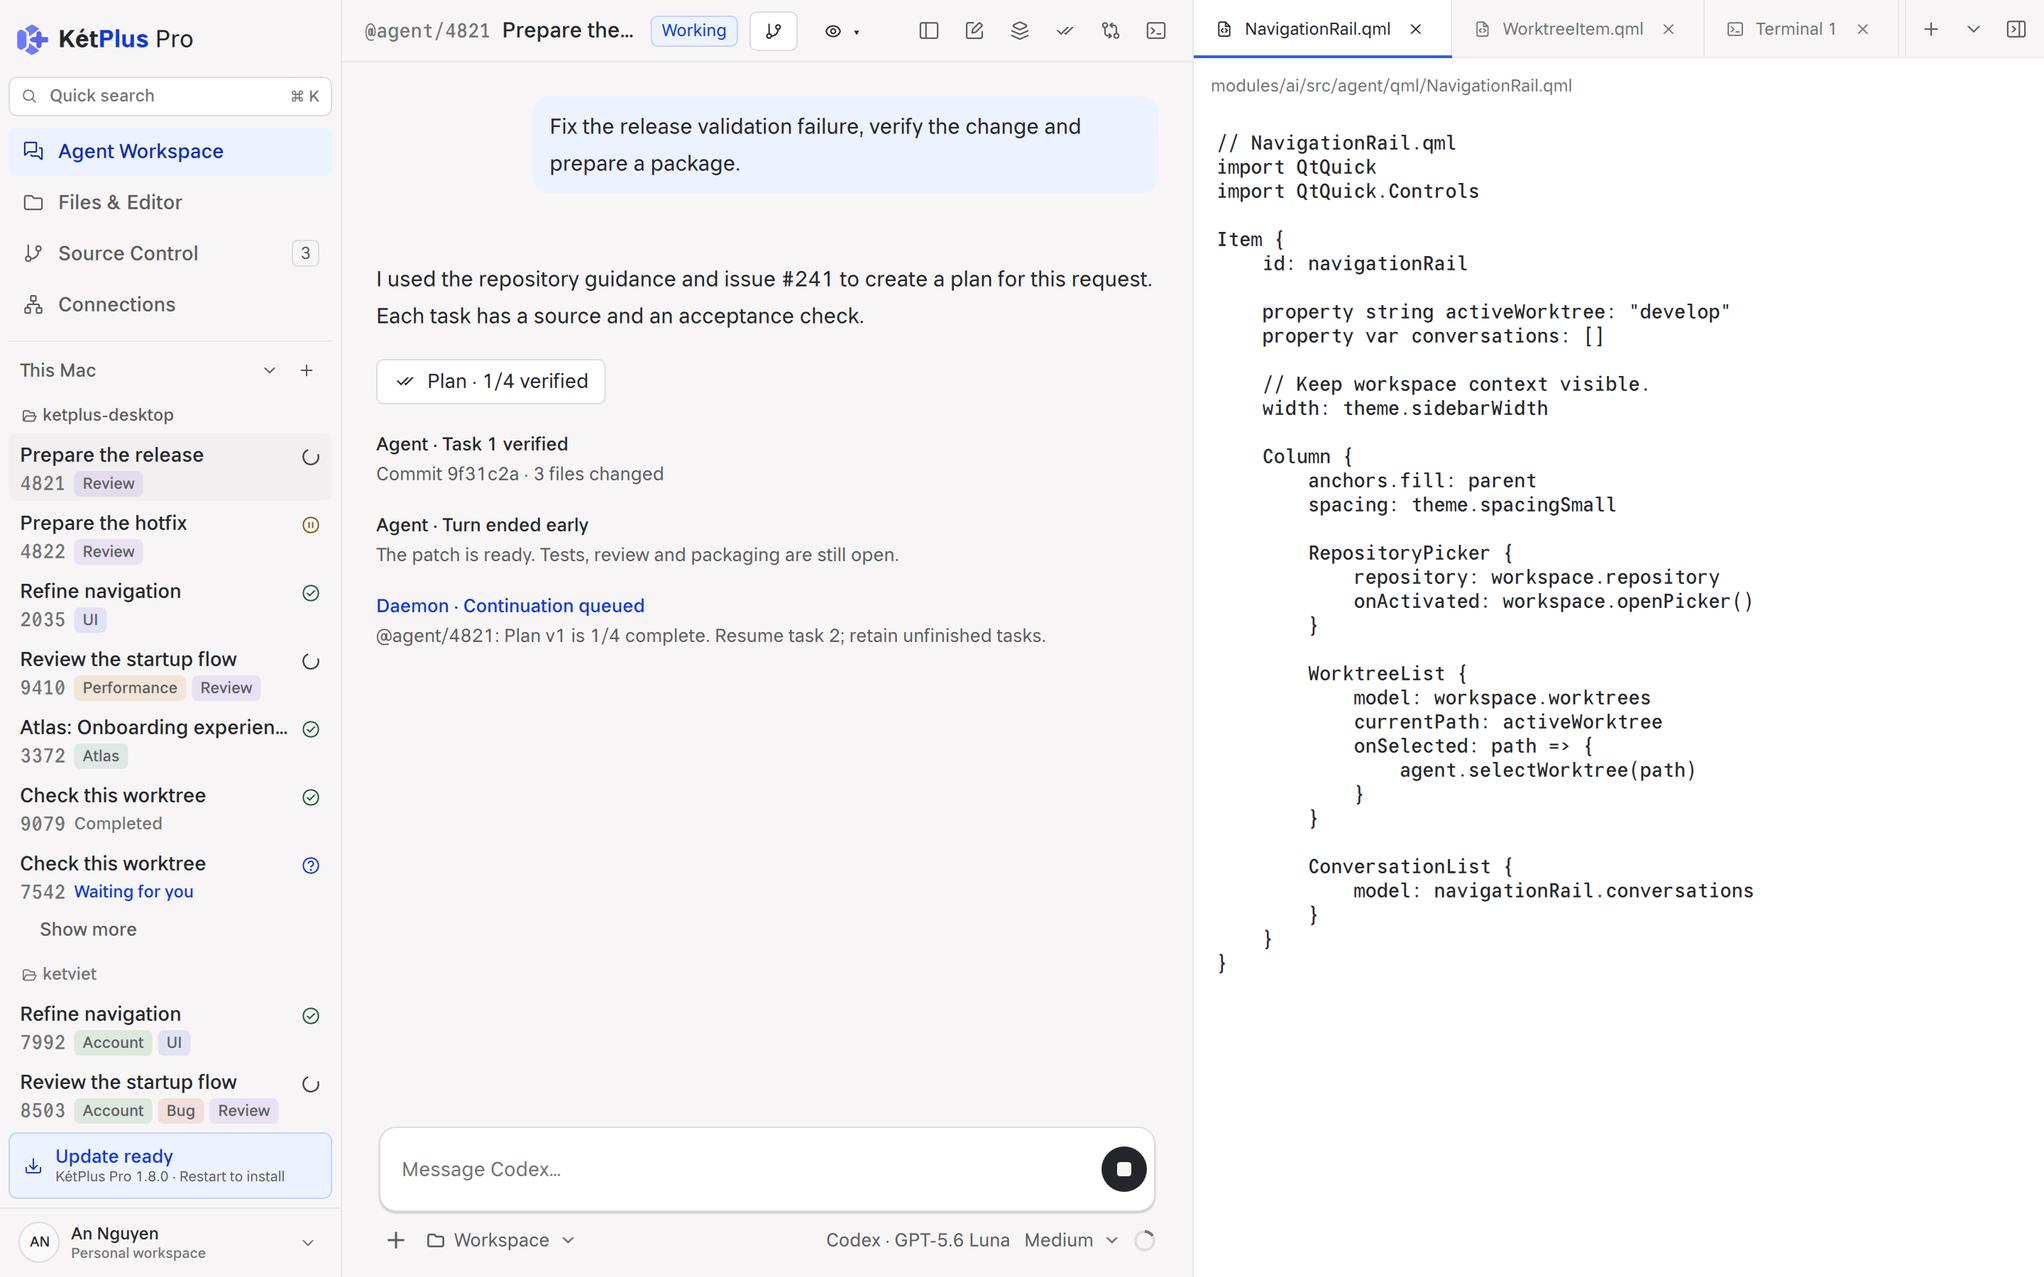
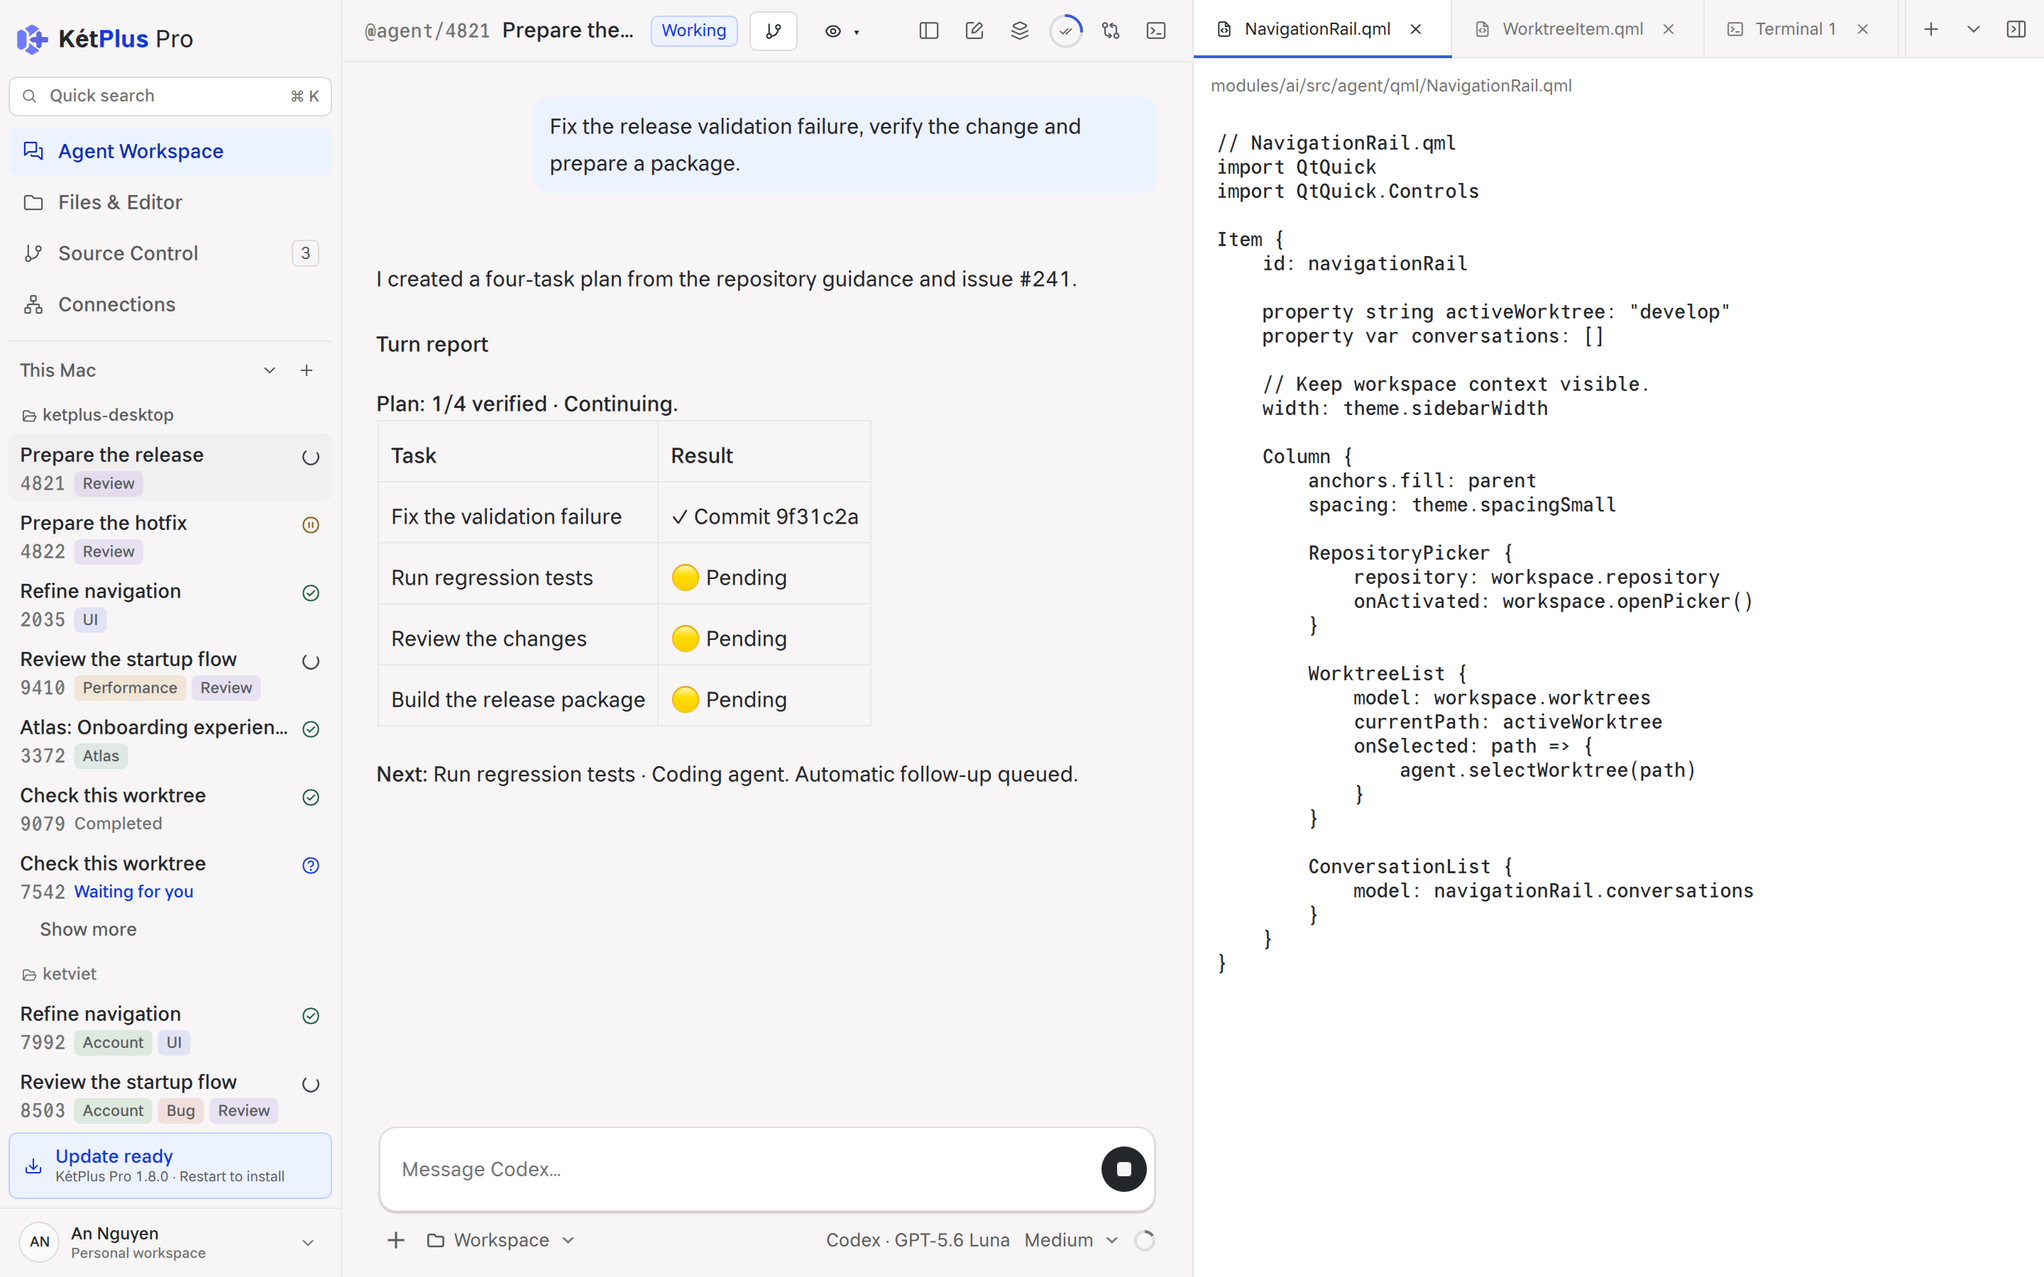
design(mock): move plan progress into the conversation toolbar

Changed region(s): [[0.1875, 0.1867, 0.5625, 0.56], [0.1875, 0.5911, 0.5312, 0.6222]]

diff --git a/mockups/qt/qml/parts/ConversationPlanTranscript.qml b/mockups/qt/qml/parts/ConversationPlanTranscript.qml
@@ -3,13 +3,30 @@ import QtQuick
 import Ket
 import KetPlusMock
 
-// The plan is conversation content. Its checklist opens in the existing detail pane.
+// The toolbar opens the plan. Chat keeps the final report, not a second activity feed.
 Column {
     id: transcript
     required property var window
     required property var run
-    signal openPlan()
     function px(n) { return KetTheme.px(n, KetTheme.zoom) }
+    function reportMarkdown(report) {
+        if (!report) return ""
+        const evidence = ["✓ Commit 9f31c2a", "✓ 48/48 passed", "✓ No open findings", "✓ Package built"]
+        let text = "**Turn report**\n\n**Plan: " + report.completed + "/" + run.tasks.length
+            + " verified · " + run.statusLabel(report.status) + ".**\n\n"
+            + "| Task | Result |\n| --- | --- |\n"
+        for (let i = 0; i < run.tasks.length; ++i) {
+            const result = i < report.completed ? evidence[i]
+                : i === report.completed && report.status === "blocked" ? "🔴 Blocked" : "🟡 Pending"
+            text += "| " + run.tasks[i].title + " | " + result + " |\n"
+        }
+        const next = report.status === "complete" ? "None. All four tasks are verified."
+            : report.status === "blocked" ? "Repository owner: restore the regression fixture. Then the coding agent resumes tests."
+            : report.status === "paused" ? "You: resume when ready. Automatic follow-up is stopped."
+            : report.status === "limit" ? "You: review the stalled work before allowing another follow-up."
+            : run.tasks[report.completed].title + " · " + run.tasks[report.completed].owner + ". Automatic follow-up queued."
+        return text + "\n**Next:** " + next
+    }
     topPadding: px(24)
     bottomPadding: px(24)
     spacing: px(20)
@@ -22,41 +39,17 @@ Column {
         MarkdownView {
             width: parent.width
             window: transcript.window
-            markdown: run.contextRead
-                ? "I used the repository guidance and issue #241 to create a plan for this request. Each task has a source and an acceptance check."
+            markdown: run.planCreated
+                ? "I created a four-task plan from the repository guidance and issue #241."
                 : run.status === "ready" ? "Send the sample prompt to preview automatic planning."
+                : run.contextRead ? "Repository context checked. I’m creating a plan for this request."
                 : "This needs several steps. I’m checking the repository memory and relevant open issues before creating a plan."
         }
-        KetButton {
-            text: run.planCreated ? "Plan · " + run.completed + "/4 verified" : "View planning"
-            iconName: "check-all"
-            variant: KetTheme.ButtonVariant.Secondary
-            onClicked: transcript.openPlan()
-        }
-        Repeater {
-            model: run.events.filter(e => e.actor !== "You").slice(-3)
-            Column {
-                required property var modelData
-                width: parent.width
-                spacing: transcript.px(5)
-                Text {
-                    width: parent.width
-                    text: modelData.actor + " · " + modelData.title
-                    color: modelData.actor === "Daemon" ? KetTheme.t.accentText : KetTheme.t.textMain
-                    font.family: KetTheme.fontFamily
-                    font.pixelSize: transcript.px(13)
-                    font.weight: Font.Medium
-                    wrapMode: Text.Wrap
-                }
-                Text {
-                    width: parent.width
-                    text: modelData.detail
-                    color: KetTheme.t.textSecondary
-                    font.family: KetTheme.fontFamily
-                    font.pixelSize: transcript.px(13)
-                    wrapMode: Text.Wrap
-                }
-            }
+        MarkdownView {
+            visible: !!run.lastReport
+            width: parent.width
+            window: transcript.window
+            markdown: transcript.reportMarkdown(run.lastReport)
         }
     }
 }

diff --git a/mockups/qt/qml/parts/PlanRunModel.qml b/mockups/qt/qml/parts/PlanRunModel.qml
@@ -27,6 +27,8 @@ QtObject {
         onTriggered: run.advance()
     }
     property var events: []
+    // A finished turn keeps its own snapshot while the toolbar follows live progress.
+    property var lastReport: null
     readonly property bool active: status === "planning" || status === "running" || status === "continuing"
     readonly property var tasks: [
         { title: "Fix the validation failure", owner: "Coding agent", criterion: "Issue #241 reproduction passes after the patch.", source: "GitHub #241", evidence: "Commit 9f31c2a · 3 files changed" },
@@ -37,10 +39,17 @@ QtObject {
     function record(actor, title, detail) {
         events = events.concat([{ actor: actor, title: title, detail: detail }])
     }
+    function statusLabel(state) {
+        return ({ ready: "Not created", planning: "Planning", running: "Working", continuing: "Continuing",
+            blocked: "Blocked", paused: "Stopped by you", limit: "Limit reached", complete: "Complete" })[state]
+    }
+    function finishReport() {
+        if (planCreated) lastReport = { completed: completed, status: status }
+    }
     function load(state) {
         autoplay = false
         status = "ready"; completed = 0; followUps = 0; followUpLimit = 3; events = []
-        contextRead = false; planCreated = false; resumeState = "running"
+        contextRead = false; planCreated = false; resumeState = "running"; lastReport = null
         if (state === "ready") return
         record("You", "Request received", prompt)
         record("Agent", "Multi-step work detected", "Inspect repo memory and relevant open issues, then create a plan for this conversation.")
@@ -65,6 +74,7 @@ QtObject {
             for (let i = 1; i < 4; ++i) record("Agent", "Task " + (i + 1) + " verified", tasks[i].evidence)
             record("Daemon", "Plan complete", "All four acceptance criteria have evidence. No further follow-up is scheduled.")
         }
+        if (state !== "running") finishReport()
     }
     function submitPrompt() {
         if (status !== "ready") return
@@ -92,6 +102,7 @@ QtObject {
         status = "continuing"
         record("Agent", "Turn ended early", completed + "/4 tasks verified. The remaining tasks are still open.")
         record("Daemon", "Continuation queued", "Resume @agent/" + conversationId + " at task " + (completed + 1) + " against Plan v1. Do not repeat completed work.")
+        finishReport()
     }
     function advance() {
         if (!active) return
@@ -104,6 +115,7 @@ QtObject {
             if (followUps >= followUpLimit) {
                 status = "limit"; autoplay = false
                 record("Daemon", "Follow-up limit reached", "Work remains. Review the cause before extending the limit.")
+                finishReport()
                 return
             }
             ++followUps; status = "running"
@@ -117,6 +129,7 @@ QtObject {
         } else if (completed === 4) {
             status = "complete"; autoplay = false
             record("Daemon", "Plan complete", "4/4 acceptance criteria verified. No automatic follow-up remains.")
+            finishReport()
         }
     }
     function stop() {
@@ -124,6 +137,7 @@ QtObject {
         resumeState = status === "planning" ? "planning" : "running"
         status = "paused"; autoplay = false
         record("You", "Run stopped", "Queued continuation cancelled. Completed tasks and evidence are preserved.")
+        finishReport()
     }
     function resume() {
         if (status !== "paused") return

diff --git a/mockups/qt/qml/parts/PlanProgressButton.qml b/mockups/qt/qml/parts/PlanProgressButton.qml
@@ -1,0 +1,56 @@
+// SPDX-License-Identifier: MPL-2.0
+import QtQuick
+import Ket
+
+// Conversation-specific composition: kit button + progress geometry and semantic tokens.
+// Usage-ring colours indicate capacity pressure, so they must not colour plan completion.
+KetIconButton {
+    id: button
+    property var run: null
+    readonly property real progress: run && run.planCreated ? run.completed / run.tasks.length : 0
+    readonly property var ringRecipe: KetTheme.usageRingRecipe(KetTheme.dark, KetTheme.zoom, 0, false)
+    readonly property var progressRecipe: KetTheme.progressRecipe(KetTheme.dark, KetTheme.zoom)
+    readonly property color arcColor: run && run.status === "complete" ? KetTheme.t.success
+        : run && ["blocked", "limit"].includes(run.status) ? KetTheme.t.warning
+        : run && run.status === "paused" ? KetTheme.t.textMuted : progressRecipe.fill
+
+    objectName: "conversationPlanButton"
+    iconName: "check-all"
+    glyphSize: KetTheme.px(12, KetTheme.zoom)
+    text: "Plan · " + (run && run.planCreated ? run.completed + "/" + run.tasks.length + " verified · " : "")
+        + (run ? run.statusLabel(run.status) : "Not created")
+
+    Canvas {
+        id: ring
+        anchors.centerIn: parent
+        width: KetTheme.px(24, KetTheme.zoom)
+        height: width
+        readonly property real value: button.progress
+        readonly property real stroke: button.ringRecipe.stroke
+        readonly property color track: button.progressRecipe.track
+        readonly property color arc: button.arcColor
+        onValueChanged: requestPaint()
+        onStrokeChanged: requestPaint()
+        onTrackChanged: requestPaint()
+        onArcChanged: requestPaint()
+        onWidthChanged: requestPaint()
+        onPaint: {
+            const ctx = getContext("2d")
+            ctx.reset()
+            const radius = (width - stroke) / 2
+            ctx.lineWidth = stroke
+            ctx.strokeStyle = track
+            ctx.beginPath()
+            ctx.arc(width / 2, height / 2, radius, 0, 2 * Math.PI)
+            ctx.stroke()
+            if (value > 0) {
+                ctx.strokeStyle = arc
+                ctx.lineCap = "round"
+                ctx.beginPath()
+                ctx.arc(width / 2, height / 2, radius, -Math.PI / 2,
+                        -Math.PI / 2 + 2 * Math.PI * Math.min(1, value))
+                ctx.stroke()
+            }
+        }
+    }
+}

diff --git a/mockups/qt/tests/tst_PlanRunModel.qml b/mockups/qt/tests/tst_PlanRunModel.qml
@@ -63,6 +63,37 @@ TestCase {
         run.resume(); run.advance()
         compare(run.completed, 2)
     }
+    function test_report_preserves_finished_turn_while_next_turn_progresses() {
+        run.start(); run.advance()
+        const firstReport = run.lastReport
+        compare(firstReport.completed, 1)
+        compare(firstReport.status, "continuing")
+        run.advance(); run.advance()
+        compare(run.completed, 2)
+        compare(run.lastReport, firstReport)
+        compare(firstReport.completed, 1)
+        run.advance(); run.advance()
+        compare(run.lastReport.completed, 4)
+        compare(run.lastReport.status, "complete")
+        compare(firstReport.completed, 1)
+    }
+    function test_report_requires_a_plan_and_records_interrupted_work() {
+        run.submitPrompt(); run.stop()
+        compare(run.lastReport, null)
+        run.load("blocked")
+        compare(run.lastReport.status, "blocked")
+        compare(run.lastReport.completed, 1)
+        run.retryBlocker()
+        compare(run.lastReport.completed, 1)
+        run.load("running"); run.stop()
+        compare(run.lastReport.status, "paused")
+        run.resume()
+        compare(run.lastReport.status, "paused")
+        run.load("limit")
+        compare(run.lastReport.status, "limit")
+        run.load("ready")
+        compare(run.lastReport, null)
+    }
     function test_blocker_cannot_be_marked_done_by_retry() {
         run.load("blocked")
         run.advance(); run.resume(); run.retryBlocker()

diff --git a/mockups/qt/qml/parts/ConversationHeader.qml b/mockups/qt/qml/parts/ConversationHeader.qml
@@ -12,6 +12,7 @@ Rectangle {
     required property var window
     required property var conversation
     property bool detailsOpen: false
+    property var planRun: null
     property int status: conversation.status
 
     // The agent that reviews each finished turn and replies here, by conversation number.
@@ -212,10 +213,9 @@ Rectangle {
             checked: header.detailsOpen
             onClicked: header.toggleDetails("atlas")
         }
-        KetIconButton {
+        PlanProgressButton {
             visible: !!header.conversation.hasPlan
-            iconName: "check-all"
-            text: "Conversation plan"
+            run: header.planRun
             onClicked: header.toggleDetails("plan")
         }
         KetIconButton {

diff --git a/mockups/qt/qml/screens/WorkspaceScreen.qml b/mockups/qt/qml/screens/WorkspaceScreen.qml
@@ -95,6 +95,7 @@ Item {
                 Layout.fillWidth: true
                 window: screen.window
                 conversation: screen.conversation
+                planRun: screen.planRun
                 status: screen.planStatus(screen.conversation.number, screen.conversation.status)
                 detailsOpen: screen.detailsOpen
                 onToggleDetails: tab => screen.openContent(tab)
@@ -123,7 +124,6 @@ Item {
                         sourceComponent: ConversationPlanTranscript {
                             window: screen.window
                             run: screen.planRun
-                            onOpenPlan: screen.openPlan("")
                         }
                     }
                     Transcript {

diff --git a/mockups/qt/marketing/plan-harness/README.md b/mockups/qt/marketing/plan-harness/README.md
@@ -4,7 +4,9 @@ The plan belongs to a conversation, not to a project-wide Planning screen. Open 
 
 ## Compact presentation
 
-Each task is one row: completion icon, task title, owner and status. Expand a task to inspect its acceptance criterion and evidence. Activity entries are also one row; expand one for details. The conversation header and sidebar reflect the run state. An inline conversation action shows the verified count and reopens the right pane. The header checklist action opens the same pane. Closing the pane or changing its content does not stop or reset the plan.
+Each task is one row: completion icon, task title, owner and status. Expand a task to inspect its acceptance criterion and evidence. Activity entries inside the Plan document are also one row; expand one for details. The conversation header and sidebar reflect the run state. A single checklist icon with a progress ring in the conversation toolbar opens the Plan document. Its accessible name and tooltip include the verified count and state. The ring follows live progress and uses success colour at completion. Closing the pane or changing its content does not stop or reset the plan.
+
+The transcript has no inline Plan button or duplicated Agent/Daemon activity feed. Its compact end-of-turn report states the plan status and verified count, lists one row per task with evidence or pending work, and names the next action and owner. This report is a snapshot of the finished turn; it does not silently change as the next turn progresses. A later finished turn produces a new report. Before a plan exists, there is no completion report.
 
 All text is English. The footer’s Preview selector and playback buttons are prototype controls, not proposed production controls. Concept labels and sample-evidence disclosures must remain when these captures are used in marketing.
 
@@ -12,7 +14,7 @@ All text is English. The footer’s Preview selector and playback buttons are pr
 
 - Each open file has its own tab; the same path reselects its existing tab. A file and its diff are separate documents.
 - Each New terminal action creates a numbered session. Draft input and fixture output stay with that session when switching tabs. No shell command is executed.
-- Plan is one document per conversation. Closing its tab does not cancel the plan; the inline conversation action reopens it with existing progress.
+- Plan is one document per conversation. Closing its tab does not cancel the plan; the toolbar progress icon reopens it with existing progress.
 - The tab strip scrolls horizontally and reveals the selected tab. The dropdown lists all open documents; `+` opens sample files, a new terminal, the plan, changes or an Atlas.
 - Closing an active tab selects its neighbour; closing an inactive tab preserves the selection. The empty pane offers New terminal. Hiding the pane preserves open documents.
 - The fixture file viewer is read-only; these mocks do not read or write actual repository files. Terminal sessions and tabs are in-memory and are not persisted across launches.
@@ -57,10 +59,11 @@ Other direct states: `plan-running`, `plan-paused`, `plan-limit`. Direct state p
 ## Verification
 
 - Standalone mock build passed.
-- QML model suite: 21 passed, 0 failed. Covers automatic continuation, stop/resume, blockers and limits, plus document identity, tab closure/selection, independent terminal drafts and output, and conversation isolation.
+- QML model suite: 23 passed, 0 failed. Covers automatic continuation, stop/resume, blockers and limits, plus document identity, tab closure/selection, independent terminal drafts and output, conversation isolation, and report snapshots that retain a finished turn’s progress while the next turn runs.
 - Pro smoke: 58 screens, 0 QML problems. Lite smoke: 11 screens, 0 QML problems.
 - Native captures cover planning, continuing and blocked in dark mode, and complete with collapsed and expanded evidence in light mode. The plan shares the existing half-width right pane; conversation content and the composer remain visible. All four tasks fit on single rows when collapsed.
 - Inspected the multi-document strip and open-tabs menu in dark mode, plus Terminal 2 and the file viewer in light mode. Fixed initial overflow positioning so the selected tab is visible.
+- Toolbar/report revision: refreshed all captures. Verified the partial progress ring and compact report in dark mode, the full success ring and completed report in light mode, and the empty planning ring and blocked report states. Every report task remains a single row at the captured size.
 - Native click automation could not attach to the preview window (`cgWindowNotFound`). Button interactions were not verified by desktop automation; model transitions and the real QML timer were tested directly. No production daemon, package installation or external tracker was tested.
 
 ## Ownership contract for future implementation
